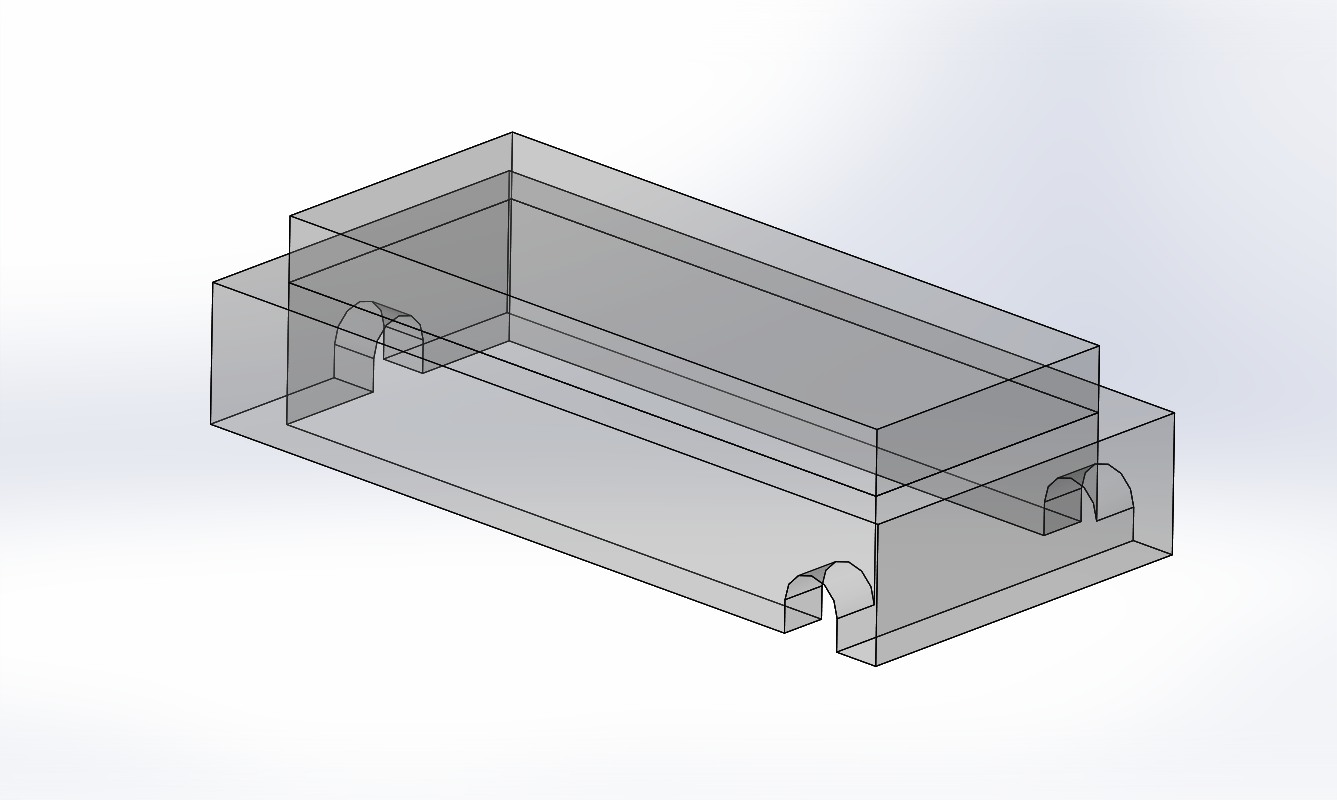
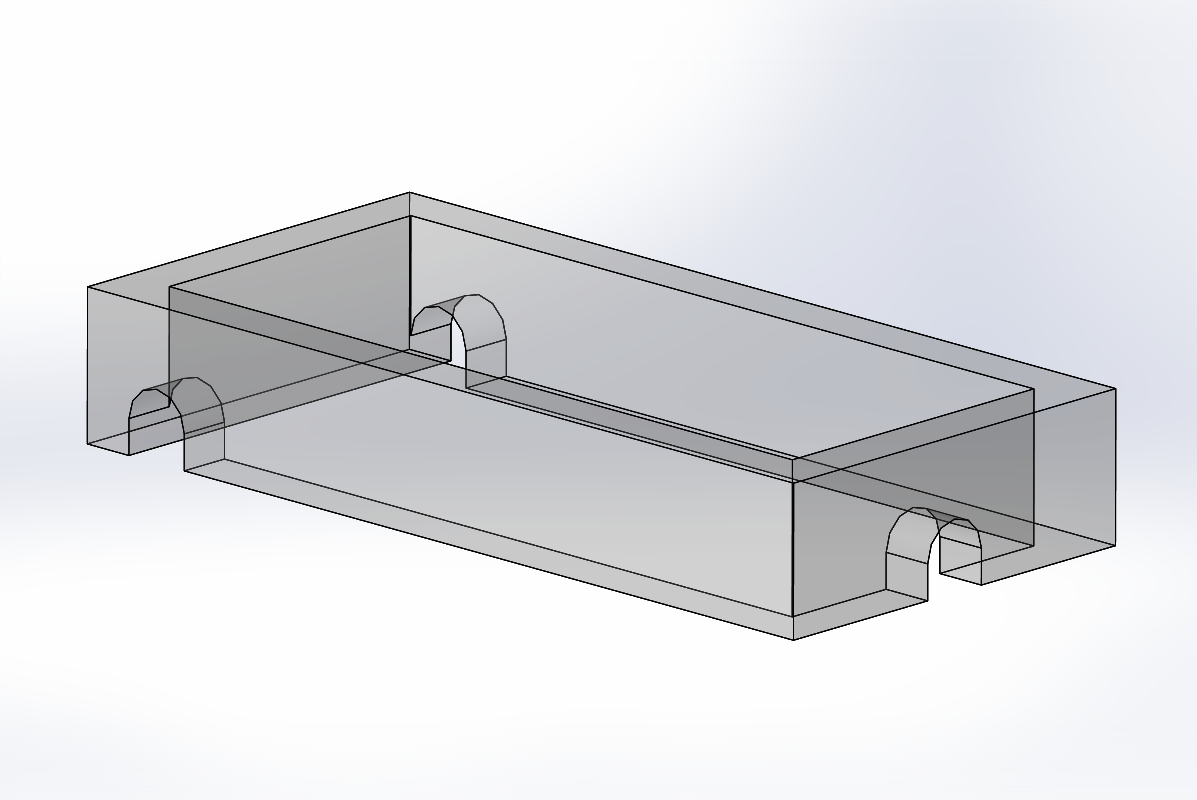
Update ligh switch.

Changed region(s): [[0.0618, 0.1562, 0.9582, 0.8438]]

diff --git a/projects/light_switch/light_switch.md b/projects/light_switch/light_switch.md
@@ -19,30 +19,43 @@ I started by drawing some quick sketckes to give me a rough idea of how it would
 
 ## CADing
 
-After sketching, I started to make a CAD model in SolidWorks. I started by creating the servo, battery, and arduino model using a caliper.
+After sketching, I started to make a CAD model in SolidWorks. I started by creating the servo, battery, and arduino models using a caliper.
 **cad model for servo and battery**
 
 ### Mounts
 Then I made the body to connect everything together. I started by creating the holes and dimensions of an acutal light switch cover and modified it fit all the components. 
 
 **Battery Mount**
-The battery mount had two main components to the battery holder. The first is a 3D printed housing for the battery springs and the other is the clips that hold the batteries in place. 
+[//]: # (Talk about using double AA batteries at first have pictures)`
+The battery mount had two main components to the battery holder. The first is a 3D printed housing for the battery springs and the other is the clips that hold the batteries in place. By combining multiple of these items, I created a battery holder that can fit three 18650 batteries.
 
-**image of battery mount**
+<center><img src="light_switch_photos/battery_mount.png" alt="drawing" width="500"/></center>
+<figcaption align = "center"><b>Battery Mount</b></figcaption>
 
 **Arduino Mount**
-The arduino monut was straightforward to cad. I began by extruding a box with the top open to store all the wires. Then I created a hole on the side to connect the servo and battery to the arduino.
+The arduino monut was straightforward to cad. I began by extruding a box with the top open to store all the wires. Then I created a hole on the side to connect the servo and battery to the arduino. The transparant part in the picture below is a representation of an Arduino Nano. In the second photo, you can see three holes for wires that connect to the servo and battery terminals.
 
-**image of arduino mount**
+<center><img src="light_switch_photos/arduino_mount2.png" alt="drawing" width="500"/></center>
+<figcaption align = "center"><b>Arduino Mount with Arduino Placement</b></figcaption>
+
+<center><img src="light_switch_photos/arduino_mount.png" alt="drawing" width="500"/></center>
+<figcaption align = "center"><b>Arduino Mount Showing Holes</b></figcaption>
 
 **Servo Mount**
 I created the servo mount by creating two identical towers in which screws can be attached to.
 
-**servo mount**
+<center><img src="light_switch_photos/servo_mount.png" alt="drawing" width="500"/></center>
+<figcaption align = "center"><b>Servo Mount</b></figcaption>
+
+**Lever Arm**
+<center><img src="light_switch_photos/final_render.jpg" alt="drawing" width="500"/></center>
+<figcaption align = "center"><b>Final Render</b></figcaption>
 
 ## 3D Printing
+I used the 3D printer a lot for this project, especially for prototyping. 
 
-**See if have pictures**
+<center><img src="light_switch_photos/IMG_5733.jpg" alt="drawing" width="500"/></center>
+<figcaption align = "center"><b>3D Print of Light Switch</b></figcaption>
 
 ## Coding
 
@@ -51,5 +64,9 @@ I created the servo mount by creating two identical towers in which screws can b
 **Remote**
 
 ## Finished Product
-
+<center><img src="light_switch_photos/IMG_6018.jpg" alt="drawing" width="500"/></center>
+<figcaption align = "center"><b></b></figcaption>
+<center><img src="light_switch_photos/IMG_6017.jpg" alt="drawing" width="500"/></center>
+<figcaption align = "center"><b></b></figcaption>
+[//]: # (have youtube links)`
 ## Final Remarks
